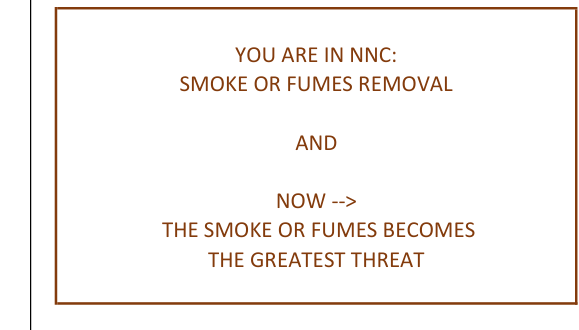
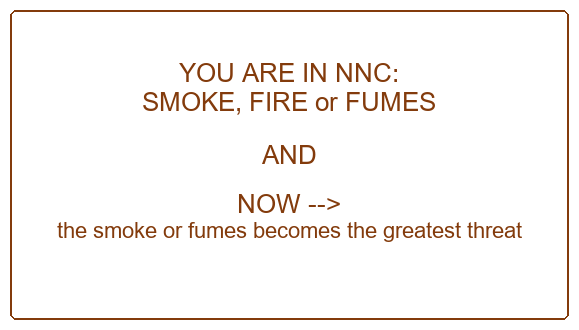
Prio-kaarten + SIMSESSIES + 2 nieuwe kaarten (v4.25)
- Prio-gate in supercyclus: zolang een prio-kaart rood/nieuw is, alleen
  prio-kaarten; daarna de rest, prio houdt voorrang tot groen.
- SIMSESSIES-bubble -> per sim-sessie (#1-#13, '23-varianten, #E) een
  eigen cyclus met alleen die scenario's.
- Klein info-label (sessie + fase) boven elke prio-kaart.
- Nieuwe tekstkaarten RA FAIL (39-1) + EVACUATION (39-2) in OM-A-stijl;
  29-3 voorzijde vervangen. Append-merge zodat nieuwe kaarten zonder
  progressieverlies op alle apparaten verschijnen.

diff --git a/index.html b/index.html
@@ -463,6 +463,18 @@
     <span class="text-amber-500 text-xs font-bold shrink-0" id="lbl-flagged-count"></span>
   </button>
 
+  <!-- Simsessies -->
+  <button onclick="showSimScreen()" class="w-full mb-3 p-3 flex items-center justify-between bg-indigo-950 hover:bg-indigo-900 active:scale-[0.98] border border-indigo-800/50 text-indigo-200 rounded-[18px] transition-all">
+    <div class="flex items-center gap-3">
+      <span class="text-xl">🎮</span>
+      <div class="text-left">
+        <div class="font-bold text-sm leading-tight">Simsessies</div>
+        <div class="text-xs font-normal text-indigo-400/70 mt-0.5">Oefen per sim-sessie · alleen die scenario's</div>
+      </div>
+    </div>
+    <span class="text-indigo-400 text-lg shrink-0">→</span>
+  </button>
+
   <!-- Naslag + Kaart toevoegen -->
   <div class="grid grid-cols-3 gap-2 mb-4">
     <button onclick="showNalasScreen()" class="btn-session col-span-2 bg-sky-950 hover:bg-sky-900 border border-sky-800/50 text-sky-200">
@@ -544,6 +556,9 @@
     </div>
     <div></div>
   </div>
+
+  <!-- Prio info-label (sim-sessies + fase) -->
+  <div id="prio-info-label" class="hidden text-center text-[11px] tracking-wide text-amber-500/80 font-semibold mb-1.5 px-2"></div>
 
   <!-- Card area (swipeable) -->
   <div id="card-swipe-area" class="relative">
@@ -641,6 +656,19 @@
 
 </div>
 
+
+<!-- ===================== SIMSESSIES SCREEN ===================== -->
+<div id="screen-sim" class="screen hidden max-w-3xl mx-auto px-4 py-4">
+  <div class="flex items-center mb-5">
+    <button onclick="backToDashboard()" class="flex items-center gap-1.5 text-zinc-400 hover:text-white font-semibold transition-colors mr-auto">
+      <span class="text-lg">←</span> Dashboard
+    </button>
+    <div class="text-xl font-black text-indigo-300 tracking-widest">SIMSESSIES</div>
+    <div class="mr-auto"></div>
+  </div>
+  <p class="text-xs text-zinc-500 mb-4 text-center">Kies een sim-sessie — je krijgt alleen de scenario's van die sessie.<br>Jaartal '23 = sessie uit 2023 · #E = examen.</p>
+  <div id="sim-bubbles" class="grid grid-cols-3 sm:grid-cols-4 gap-2"></div>
+</div>
 
 <!-- ===================== NASLAG SCREEN ===================== -->
 <div id="screen-naslag" class="screen hidden max-w-3xl mx-auto px-4 py-4">
@@ -1019,10 +1047,30 @@
 // =====================================================================
 // CONSTANTS & CONFIG
 // =====================================================================
-const APP_VERSION = "4.24";
+const APP_VERSION = "4.25";
 const STORAGE_KEY = "b737_trainer_v3";
 const TOTAL_PAGES = 38;
 const CARDS_PER_PAGE = 5;
+
+// ============ PRIO-KAARTEN + SIMSESSIES — config (makkelijk te bewerken) ============
+const EXTRA_CARDS = ['39-1','39-2']; // nieuwe tekstkaarten: RA FAIL, EVACUATION
+const PRIORITY_CARDS = new Set(["03-1","04-2","04-3","04-4","05-3","05-4","06-2","06-3","07-4","08-1","08-2","08-3","08-4","08-5","09-2","10-3","11-1","11-3","12-2","12-5","13-1","13-2","13-3","13-4","14-1","14-5","16-1","16-2","16-3","17-4","18-5","19-2","19-3","19-4","20-2","20-4","21-2","21-3","21-4","21-5","22-1","22-3","22-4","24-1","24-2","24-3","24-5","26-1","26-2","26-3","29-3","29-4","30-1","30-5","31-3","31-4","31-5","32-2","33-4","33-5","34-2","35-4","39-1","39-2"]);
+const PRIORITY_INFO = {"13-2":"Sim #5 #6 #7'23 #12 · on ground","13-4":"Sim #5 · on ground","24-3":"Sim #5'23 · on ground","34-2":"Sim #1 #4 #5 #6 #9 #3'23 #4'23 #6'23 #7'23 #12 · takeoff roll","14-1":"Sim #1 #12 · takeoff roll / final app","24-2":"Sim #2 #11 · takeoff roll","22-1":"Sim #2 #11 · after t/o / climbout","19-4":"Sim #2 #4 #9 #11 · after t/o / climbout / cruise","08-4":"Sim #2 #4 #6 #9 #11 · cruise / descent","24-5":"Sim #2 #4 #9 #11 · descent","19-3":"Sim #2 #11 · holding / descent","06-3":"Sim #3 #5'23 #13 · takeoff roll / cruise","18-5":"Sim #2 #3 #11 #13 #3'23 #6'23 · takeoff roll / cruise / descent","19-2":"Sim #2 #3 #11 #13 #3'23 #6'23 · takeoff roll / cruise / descent","26-1":"Sim #2 #3 #11 #13 #3'23 #6'23 · takeoff roll / cruise / descent","32-2":"Sim #2 #3 #11 #13 #3'23 #6'23 · takeoff roll / cruise / descent","08-1":"Sim #3 #5 #6'23 #E · cruise","16-1":"Sim #3 #5 #6'23 #12 #13 #E · takeoff roll / cruise","16-2":"Sim #3 #4 #5 #6'23 · cruise","16-3":"Sim #5 #2'23 #3'23 #5'23 #13 #E · climbout / cruise","24-1":"Sim #3 #5 #6'23 #13 · climbout / cruise","03-1":"Sim #3 #5 #6'23 #13 · climbout / cruise / descent","29-4":"Sim #3 #12 #13 #E · climbout / cruise","30-5":"Sim #4 #10 · after t/o / approach","31-5":"Sim #4 #10 · after t/o / approach","11-3":"Sim #4 #6 · cruise","13-1":"Sim #4 #6 · cruise","26-3":"Sim #4 #10 · approach","22-3":"Sim #4 #10 #2'23 · after t/o / approach","22-4":"Sim #4 #10 · landing","17-4":"Sim #5 #6'23 #7'23 · climbout / cruise / final app","05-3":"Sim #5 · cruise","05-4":"Sim #5 · cruise","12-2":"Sim #5 #8 · cruise","29-3":"Sim #5 #8 · cruise","35-4":"Sim #5 #8 · cruise","26-2":"Sim #5 #5'23 #7'23 · cruise / descent / landing","06-2":"Sim #5 · descent","21-3":"Sim #5 · approach","20-4":"Sim #5 · approach","07-4":"Sim #5 #8 #4'23 · after t/o / climbout / cruise","11-1":"Sim #5 #6 · cruise","33-4":"Sim #6 · cruise","08-2":"Sim #6 · cruise","08-3":"Sim #6 · cruise","08-5":"Sim #6 #9 · cruise / descent","10-3":"Sim #6 #9 · cruise / descent","09-2":"Sim #6 · cruise","20-2":"Sim #6 · cruise","21-5":"Sim #2'23 #E · climbout","21-4":"Sim #5'23 #12 #E · approach / climbout","12-5":"Sim #13 · cruise","13-3":"Sim #13 · cruise","30-1":"Sim #13 · cruise","31-3":"Sim #13 · cruise","31-4":"Sim #13 · cruise","14-5":"Sim #13 · approach","04-3":"Sim #5'23 · climbout","04-4":"Sim #5'23 · climbout","04-2":"Sim #5'23 · climbout","21-2":"Sim #10 · takeoff roll","33-5":"Sim #1 · cruise","39-1":"Sim #6 · taxi / dispatch","39-2":"Sim #5 #5'23 #6'23 #7'23 · on ground"};
+const SIM_SESSIONS = {"1":["14-1","33-5","34-2"],"2":["08-4","18-5","19-2","19-3","19-4","22-1","24-2","24-5","26-1","32-2"],"2-23":["16-3","21-5","22-3"],"3":["03-1","06-3","08-1","16-1","16-2","18-5","19-2","24-1","26-1","29-4","32-2"],"3-23":["16-3","18-5","19-2","26-1","32-2","34-2"],"4":["08-4","11-3","13-1","16-2","19-4","22-3","22-4","24-5","26-3","30-5","31-5","34-2"],"4-23":["07-4","34-2"],"5":["03-1","05-3","05-4","06-2","07-4","08-1","11-1","12-2","13-2","13-4","16-1","16-2","16-3","17-4","20-4","21-3","24-1","26-2","29-3","34-2","35-4","39-2"],"5-23":["04-2","04-3","04-4","06-3","16-3","21-4","24-3","26-2","39-2"],"6":["08-2","08-3","08-4","08-5","09-2","10-3","11-1","11-3","13-1","13-2","20-2","33-4","34-2","39-1"],"6-23":["03-1","08-1","16-1","16-2","17-4","18-5","19-2","24-1","26-1","32-2","34-2","39-2"],"7-23":["13-2","17-4","26-2","34-2","39-2"],"8":["07-4","12-2","29-3","35-4"],"9":["08-4","08-5","10-3","19-4","24-5","34-2"],"10":["21-2","22-3","22-4","26-3","30-5","31-5"],"11":["08-4","18-5","19-2","19-3","19-4","22-1","24-2","24-5","26-1","32-2"],"12":["13-2","14-1","16-1","21-4","29-4","34-2"],"13":["03-1","06-3","12-5","13-3","14-5","16-1","16-3","18-5","19-2","24-1","26-1","29-4","30-1","31-3","31-4","32-2"],"E":["08-1","16-1","16-3","21-4","21-5","29-4"]};
+function isPrioCard(c){ return !!c && PRIORITY_CARDS.has(c.id); }
+function prioUrgencySort(seenCount){
+  return (a,b)=>{
+    const aP=isPrioCard(a)&&a.lastScore!=='good', bP=isPrioCard(b)&&b.lastScore!=='good';
+    if(aP!==bP) return aP?-1:1;                 // prio-niet-groen eerst
+    const aN=!a.lastScore, bN=!b.lastScore;
+    if(aN!==bN) return aN?-1:1;                 // nieuw eerst
+    const aD=(a.nextDue||0)-seenCount, bD=(b.nextDue||0)-seenCount;
+    if(aD!==bD) return aD-bD;                   // meest overdue eerst
+    return a._rand-b._rand;
+  };
+}
+function simLabel(sid){ return sid==='E' ? '#E' : (/-23$/.test(sid) ? '#'+sid.slice(0,-3)+" '23" : '#'+sid); }
+// =====================================================================================
 
 const SESSION_LABELS = {
   super:   "Supercyclus",
@@ -1072,6 +1120,8 @@ function makeInitialCards() {
       list.push(makeBlankCard(`${pp}-${c}`, `flashcards/front_${pp}_${c}.png`, `flashcards/back_${pp}_${c}.png`));
     }
   }
+  EXTRA_CARDS.forEach(id => { const [pp,c] = id.split('-');
+    list.push(makeBlankCard(id, `flashcards/front_${pp}_${c}.png`, `flashcards/back_${pp}_${c}.png`)); });
   return list;
 }
 
@@ -1132,6 +1182,9 @@ function loadData() {
       if (c.flagNote === undefined) c.flagNote = '';
       if (c.flagNoteUpdatedAt === undefined) c.flagNoteUpdatedAt = null;
     });
+    // Nieuwe kaarten (bv. 39-1/39-2) aanvullen ZONDER progressie te verliezen
+    const _have = new Set(cards.map(c => c.id));
+    makeInitialCards().forEach(nc => { if (!_have.has(nc.id)) cards.push(nc); });
   } catch(e) {
     console.error("Fout bij laden data:", e);
     cards = makeInitialCards();
@@ -1542,6 +1595,7 @@ function updateDashboard() {
 function showDashboard() {
   document.getElementById('screen-study').classList.add('hidden');
   document.getElementById('screen-naslag').classList.add('hidden');
+  document.getElementById('screen-sim').classList.add('hidden');
   document.getElementById('screen-dashboard').classList.remove('hidden');
   updateDashboard();
   maybeSyncOnDashboard();
@@ -1557,22 +1611,23 @@ function getSessionQueue(type) {
   if (type === 'flagged') return cards.filter(c => c.flagged).map(c => c.id);
 
   const seenCount = getSeenCount();
-  if (type === 'super') {
-    // Supercyclus: altijd alle kaarten, gesorteerd op urgentie:
-    // 1. Nooit gezien (new) → altijd eerst
-    // 2. Due kaarten (nextDue <= seenCount) → meest overdue eerst
-    // 3. Nog niet due → soonest due eerst (zodat er altijd iets te doen is)
-    pool = [...cards];
+  // Simsessie (type = 'sim:<id>'): alleen de kaarten van die sim-sessie.
+  if (typeof type === 'string' && type.indexOf('sim:') === 0) {
+    const set = new Set(SIM_SESSIONS[type.slice(4)] || []);
+    pool = cards.filter(c => set.has(c.id));
     pool.forEach(c => c._rand = Math.random());
-    pool.sort((a, b) => {
-      const aNew = !a.lastScore;
-      const bNew = !b.lastScore;
-      if (aNew !== bNew) return aNew ? -1 : 1;
-      const aDiff = (a.nextDue || 0) - seenCount; // negatief = overdue
-      const bDiff = (b.nextDue || 0) - seenCount;
-      if (aDiff !== bDiff) return aDiff - bDiff;   // meest overdue eerst
-      return a._rand - b._rand;
-    });
+    pool.sort(prioUrgencySort(seenCount));
+    return pool.map(c => c.id);
+  }
+  if (type === 'super') {
+    // Supercyclus met PRIO-GATE: zolang er een prio-kaart ROOD of NIEUW is, bevat de
+    // cyclus ALLEEN die prio-kaarten (drempel "niet meer rood"). Daarna komt de rest,
+    // maar prio-kaarten houden voorrang tot ze GROEN zijn. Sort: prio-niet-groen → nieuw
+    // → meest overdue. (rood ~30 / oranje ~60 / groen 120-760 via INTERVALS.)
+    const prioBlocking = cards.filter(c => isPrioCard(c) && (c.lastScore === 'bad' || !c.lastScore));
+    pool = prioBlocking.length ? prioBlocking : [...cards];
+    pool.forEach(c => c._rand = Math.random());
+    pool.sort(prioUrgencySort(seenCount));
   } else if (type === 'bad')  { pool = cards.filter(c => c.lastScore === 'bad');  }
   else if (type === 'mwah')   { pool = cards.filter(c => c.lastScore === 'mwah'); }
   else if (type === 'good')   { pool = cards.filter(c => c.lastScore === 'good'); }
@@ -1593,6 +1648,10 @@ function startSession(type, forceNew = false) {
   if (type === 'super' && !forceNew) {
     const saved = loadSuperSession();
     if (saved && saved.index < saved.queue.length) resumeState = saved;
+  }
+  // PRIO-GATE heeft voorrang: zolang er rode/nieuwe prio-kaarten zijn, drill die eerst.
+  if (type === 'super' && cards.some(c => isPrioCard(c) && (c.lastScore === 'bad' || !c.lastScore))) {
+    resumeState = null;
   }
   if (resumeState) {
     session = resumeState;
@@ -1726,7 +1785,10 @@ function showCurrentCard() {
   showFrontOnly(card);
 
   // Update header
-  document.getElementById('session-type-label').textContent = SESSION_LABELS[session.type] || session.type;
+  document.getElementById('session-type-label').textContent =
+    (typeof session.type === 'string' && session.type.indexOf('sim:') === 0)
+      ? ('Sim ' + simLabel(session.type.slice(4)))
+      : (SESSION_LABELS[session.type] || session.type);
   document.getElementById('session-progress-label').textContent =
     `Kaart ${session.index + 1} / ${session.queue.length}`;
 
@@ -1753,6 +1815,9 @@ function showCurrentCard() {
   document.getElementById('card-id-display').textContent = `Kaart ${card.id}`;
   updateLastReviewed(card);
   updateCardStats(card);
+  // Prio-info-label (klein, subtiel boven de kaart)
+  { const _el = document.getElementById('prio-info-label'); const _inf = PRIORITY_INFO[card.id];
+    if (_inf) { _el.textContent = _inf; _el.classList.remove('hidden'); } else { _el.classList.add('hidden'); } }
 
   // Flagged session: toon beide zijden direct + notitie (geen flip nodig)
   if (isFlaggedSession) {
@@ -2918,6 +2983,28 @@ async function loadMetadata() {
       if (hint) hint.textContent = `Zoek in ${count} flashcards · trefwoorden worden herkend in alle tekst`;
     }
   } catch(e) { /* metadata not yet generated — run app.py first */ }
+}
+
+function showSimScreen() {
+  document.getElementById('screen-dashboard').classList.add('hidden');
+  document.getElementById('screen-study').classList.add('hidden');
+  document.getElementById('screen-naslag').classList.add('hidden');
+  document.getElementById('screen-sim').classList.remove('hidden');
+  renderSimBubbles();
+}
+function renderSimBubbles() {
+  const wrap = document.getElementById('sim-bubbles'); if (!wrap) return;
+  wrap.innerHTML = '';
+  Object.keys(SIM_SESSIONS).forEach(sid => {
+    const ids = SIM_SESSIONS[sid];
+    const open = ids.filter(id => { const c = getCard(id); return c && c.lastScore !== 'good'; }).length;
+    const b = document.createElement('button');
+    b.className = 'btn-session bg-indigo-950 hover:bg-indigo-900 border border-indigo-800/50 text-indigo-200 flex flex-col items-center justify-center text-center py-3';
+    b.onclick = () => startSession('sim:' + sid);
+    b.innerHTML = `<span class="font-black text-base">${simLabel(sid)}</span>` +
+      `<span class="text-[10px] text-indigo-400/70 mt-0.5">${ids.length} kaart${ids.length===1?'':'en'}${open?` · ${open} open`:' · klaar'}</span>`;
+    wrap.appendChild(b);
+  });
 }
 
 function showNalasScreen() {

diff --git a/sw.js b/sw.js
@@ -2,8 +2,9 @@
 // v4.22: 4-thema toggle (donker/blauw/licht/contrast) + swipe beoordeelt niet meer (alleen bladeren)
 // v4.23: supercyclus-positie (queue + index) synct nu tussen apparaten
 // v4.24: verlies-bestendige positie-sync (verste voortgang wint, geen reset door verse cyclus elders)
-const CACHE = 'b737-trainer-v4.24';
-const TOTAL_PAGES = 38;
+// v4.25: prio-kaarten + prio-gate, SIMSESSIES, info-labels, 2 nieuwe kaarten (RA FAIL/EVAC), 29-3 front
+const CACHE = 'b737-trainer-v4.25';
+const TOTAL_PAGES = 39;
 const CARDS_PER_PAGE = 5;
 
 // Core app-bestanden + CDN-scripts + zoekindex — alle via Promise.allSettled (404 breekt install niet)